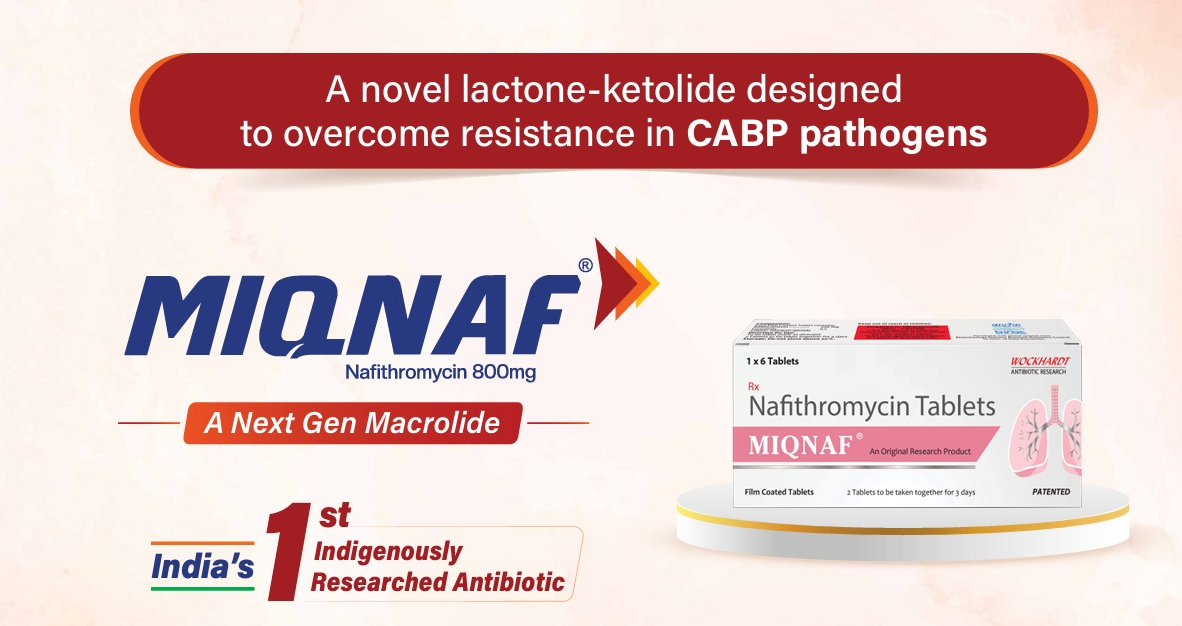
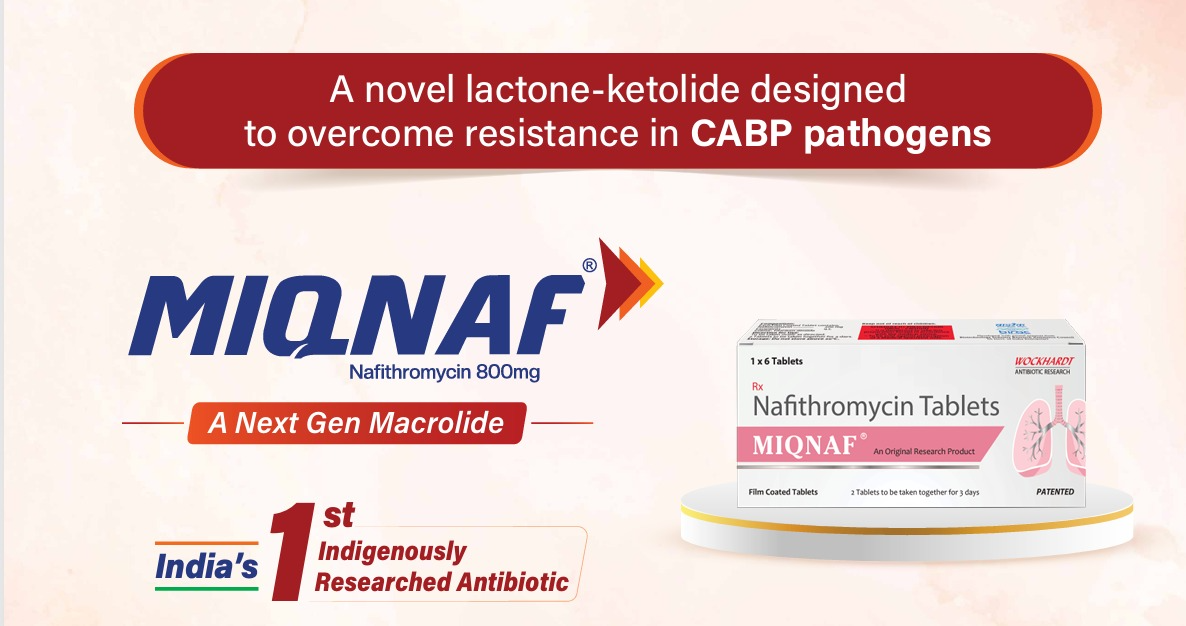
Rebuild the hero from the key visual's parts
The flat artwork was being pasted in whole, which is why it kept reading as a
poster dropped onto the page rather than a homepage. It is now taken apart and
laid out as a real hero:

- the claim, "A Next Gen Macrolide" and the India's-1st line are live text in
  the site's own typeface and brand colours, so they reflow and stay sharp
- the wordmark is the existing logo, trimmed of its transparent padding and
  resized down from 8000x4500
- the pack is cut out of the artwork and carries its own contact shadow

The pack was the awkward part. Cropped as a rectangle it brought the artwork's
diffuse white glow with it, and the crop edge showed as a pale box against the
band no matter how far the edge was feathered. It is now segmented properly:
a walk inward from the border through smooth ground stops at the printed panels
and the podium's gold rim, the hollow left in the podium is closed row by row,
and the result is trimmed to the ink.

Three older responsive blocks still carried the two-column hero's padding and
were pulling the claim up under the fixed navbar on phones and in short
landscape; they now defer to the hero's own rules.

diff --git a/style.css b/style.css
@@ -428,10 +428,10 @@ button, a {
 }
 
 /* HERO SECTION */
-/* The hero is one composed banner. Rather than letting it sit on the page as a
-   floating card, the section carries the artwork's own field colour across the
-   full width, so the banner has no visible edge — the band reads as part of it.
-   Sampled from the artwork's borders: cream on the left, warmer peach right. */
+/* Built from the key visual's parts rather than the flat artwork: the claim,
+   the tagline and the India's-1st badge are live text, the wordmark and the
+   pack are their own images. The section keeps the artwork's cream field so
+   the pack, which carries its own ground, sits in it without a seam. */
 .hero {
     position: relative;
     width: 100%;
@@ -439,7 +439,7 @@ button, a {
     display: flex;
     justify-content: center;
     align-items: center;
-    padding: calc(118px + 3vh) 0 10vh;
+    padding: calc(118px + 2vh) 0 9vh;
 }
 
 /* Matched by id as well as class: the page-wide `#page-root > section` reset
@@ -448,66 +448,203 @@ button, a {
     background: linear-gradient(103deg, #faf4f0 0%, #fdf5ed 46%, #fff1e5 100%);
 }
 
-/* The band ends in the page background instead of a hard line. The banner is
-   given the full bottom padding to clear it, so the fade only ever falls on
-   empty band. */
+/* The band ends in the page background instead of on a hard line. */
 .hero-fade {
     position: absolute;
     left: 0;
     right: 0;
     bottom: 0;
-    height: 10vh;
+    height: 9vh;
     background: linear-gradient(to bottom, rgba(242, 244, 246, 0), var(--bg-light, #F2F4F6));
     pointer-events: none;
     z-index: 1;
 }
 
-.hero-banner {
-    /* Capped by the height left below the navbar as well as by width, so the
-       whole banner stays above the fold on a short laptop screen.
-       1.888 is the artwork's aspect ratio. */
-    width: min(1440px, max(320px, (87vh - 118px) * 1.888));
-    max-width: 92%;
+.hero-inner {
     position: relative;
     z-index: 2;
+    width: 1180px;
+    max-width: 90%;
+    display: flex;
+    flex-direction: column;
+    align-items: center;
+    gap: clamp(22px, 3vh, 40px);
 }
 
-.hero-banner-img {
-    display: block;
+/* ---- the claim, as a pill ---- */
+.hero-claim {
+    margin: 0;
+    text-align: center;
+    color: #fff;
+    font-size: clamp(1rem, 1.95vw, 1.95rem);
+    font-weight: 500;
+    line-height: 1.34;
+    letter-spacing: 0.005em;
+    padding: clamp(0.75rem, 1.5vw, 1.25rem) clamp(1.5rem, 4vw, 3.6rem);
+    border-radius: 999px;
+    background: linear-gradient(180deg, #ab242b 0%, #92191f 100%);
+    box-shadow: 0 0 0 3px #ef6a2b, 0 10px 24px rgba(146, 25, 31, 0.18);
+}
+
+.hero-claim strong {
+    font-weight: 700;
+}
+
+/* ---- wordmark + tagline + badge on the left, pack on the right ---- */
+.hero-main {
     width: 100%;
+    display: flex;
+    align-items: center;
+    justify-content: center;
+    gap: clamp(16px, 3vw, 48px);
+}
+
+.hero-lead {
+    display: flex;
+    flex-direction: column;
+    align-items: flex-start;
+    gap: clamp(14px, 2.2vh, 26px);
+}
+
+.hero-lockup {
+    display: block;
+    width: clamp(240px, 30vw, 430px);
     height: auto;
-    aspect-ratio: 1182 / 626;
-    /* The artwork carries a warm pink wash toward its top-right that a flat
-       band gradient cannot match exactly, so its outer 3% is dissolved into
-       the band instead. The composition keeps 12% clear margin at the sides
-       and 6% at the bottom, so the fade only ever eats empty background.
-       Browsers without mask support simply show the faint edge. */
-    -webkit-mask-image:
-        linear-gradient(to right, transparent, #000 3%, #000 97%, transparent),
-        linear-gradient(to bottom, transparent, #000 3%, #000 97%, transparent);
-    -webkit-mask-composite: source-in;
-    mask-image:
-        linear-gradient(to right, transparent, #000 3%, #000 97%, transparent),
-        linear-gradient(to bottom, transparent, #000 3%, #000 97%, transparent);
-    mask-composite: intersect;
+    aspect-ratio: 1500 / 406;
+}
+
+/* ---- "A Next Gen Macrolide" ---- */
+.hero-tag {
+    margin: 0;
+    display: flex;
+    align-items: center;
+    gap: clamp(8px, 1.2vw, 16px);
+    align-self: stretch;
+}
+
+.hero-tag::before,
+.hero-tag::after {
+    content: "";
+    flex: 1 1 auto;
+    max-width: clamp(20px, 5vw, 78px);
+    height: 2px;
+    background: #a31e23;
+    opacity: 0.65;
+}
+
+.hero-tag span {
+    flex: 0 0 auto;
+    color: #fff;
+    background: #ef6a2b;
+    font-size: clamp(0.9rem, 1.35vw, 1.35rem);
+    font-weight: 700;
+    font-style: italic;
+    letter-spacing: 0.01em;
+    padding: 0.34em 1.15em;
+    border-radius: 6px;
+}
+
+/* ---- India's 1st Indigenously Researched Antibiotic ---- */
+.hero-first {
+    margin: 0;
+    display: flex;
+    align-items: center;
+    gap: clamp(8px, 1.1vw, 16px);
+}
+
+.hero-first-country {
+    color: var(--brand-navy);
+    font-size: clamp(1.05rem, 1.75vw, 1.75rem);
+    font-weight: 700;
+    line-height: 1.1;
+    /* the tricolour rule the artwork sets under the word */
+    padding-bottom: 5px;
+    border-bottom: 4px solid transparent;
+    border-image: linear-gradient(to right, #ff9933 0 33.3%, #ffffff 33.3% 66.6%, #138808 66.6% 100%) 1;
+}
+
+.hero-first-rank {
+    color: var(--brand-red);
+    font-size: clamp(2.2rem, 4.2vw, 4.1rem);
+    font-weight: 700;
+    line-height: 0.85;
+}
+
+.hero-first-rank sup {
+    font-size: 0.42em;
+    vertical-align: super;
+}
+
+.hero-first-what {
+    color: var(--brand-red);
+    font-size: clamp(0.92rem, 1.42vw, 1.42rem);
+    font-weight: 700;
+    line-height: 1.24;
+}
+
+/* ---- the pack ---- */
+.hero-pack {
+    flex: 0 1 auto;
+}
+
+.hero-pack img {
+    display: block;
+    width: clamp(290px, 35vw, 510px);
+    height: auto;
+    aspect-ratio: 466 / 262;
+    /* cut out of the key visual, so it needs its own contact shadow */
+    filter: drop-shadow(0 16px 24px rgba(122, 62, 34, 0.16));
 }
 
 @media (max-width: 992px) {
     .hero {
         min-height: auto;
-        padding: calc(86px + 3vh) 0 9vh;
+        padding: calc(86px + 5vh) 0 10vh;
     }
 
-    .hero-banner {
-        width: 100%;
+    .hero-inner {
+        max-width: 92%;
+    }
+
+    .hero-main {
+        flex-direction: column;
+        align-items: center;
+        gap: clamp(18px, 3vh, 32px);
+    }
+
+    .hero-lead {
+        align-items: center;
+    }
+
+    .hero-lockup {
+        width: min(330px, 74vw);
+    }
+
+    .hero-first {
+        justify-content: center;
+    }
+
+    .hero-first-what {
+        text-align: left;
+    }
+
+    .hero-pack img {
+        width: min(430px, 86vw);
     }
 }
 
-@media (max-width: 640px) {
-    /* The wording is baked into the artwork, so on a phone it is given the
-       full width rather than losing more of it to page gutters. */
-    .hero-banner {
-        max-width: 100%;
+@media (max-width: 560px) {
+    .hero-claim {
+        font-size: clamp(0.86rem, 3.5vw, 1.05rem);
+        padding: 0.85rem 1.35rem;
+        border-radius: 26px;
+        box-shadow: 0 0 0 3px #ef6a2b, 0 10px 22px rgba(146, 25, 31, 0.2);
+    }
+
+    /* the rules either side of the tagline have no room left to read */
+    .hero-tag::before,
+    .hero-tag::after {
+        display: none;
     }
 }
 
@@ -2647,7 +2784,7 @@ body.page-loaded .reveal-up {
 
     /* Hero Section */
     .hero {
-        padding-top: 8vh;
+        /* padding comes from the hero's own <=992px rule */
         min-height: auto;
         display: flex;
         flex-direction: column;
@@ -3120,8 +3257,7 @@ body.page-loaded .reveal-up {
 
     /* Hero & Sections Padding */
     .hero {
-        padding: 20px 10px;
-        padding-top: 80px;
+        /* padding comes from the hero's own <=992px rule */
         display: flex;
         flex-direction: column;
         align-items: center;
@@ -3292,7 +3428,9 @@ body.page-loaded .reveal-up {
 @media (max-height: 600px) and (orientation: landscape) {
     .hero {
         min-height: auto;
-        padding-top: 6vh;
+        /* short landscape screens still have to clear the fixed navbar */
+        padding-top: calc(76px + 2vh);
+        padding-bottom: 6vh;
     }
 
     .slide {

diff --git a/sections/hero.html b/sections/hero.html
@@ -1,12 +1,37 @@
 <!-- HERO SECTION -->
 <section id="hero" class="hero">
-    <div class="hero-banner reveal-up">
-        <picture>
-            <source srcset="assests/image.webp" type="image/webp">
-            <img src="assests/image.png" class="hero-banner-img"
-                 alt="MIQNAF (Nafithromycin 800mg) — a novel lactone-ketolide designed to overcome resistance in CABP pathogens. A next gen macrolide, India's 1st indigenously researched antibiotic."
-                 width="1182" height="626" fetchpriority="high">
-        </picture>
+    <div class="hero-inner">
+        <p class="hero-claim reveal-up">
+            A novel lactone-ketolide designed<br>
+            to overcome resistance in <strong>CABP pathogens</strong>
+        </p>
+
+        <div class="hero-main">
+            <div class="hero-lead reveal-up reveal-delay-2">
+                <picture>
+                    <source srcset="assests/miqnaf-lockup.webp" type="image/webp">
+                    <img src="assests/miqnaf-lockup.png" class="hero-lockup"
+                         alt="MIQNAF — Nafithromycin 800mg" width="1500" height="406" fetchpriority="high">
+                </picture>
+
+                <p class="hero-tag"><span>A Next Gen Macrolide</span></p>
+
+                <p class="hero-first">
+                    <span class="hero-first-country">India&rsquo;s</span>
+                    <span class="hero-first-rank">1<sup>st</sup></span>
+                    <span class="hero-first-what">Indigenously<br>Researched Antibiotic</span>
+                </p>
+            </div>
+
+            <div class="hero-pack reveal-up reveal-delay-3">
+                <picture>
+                    <source srcset="assests/hero-pack.webp" type="image/webp">
+                    <img src="assests/hero-pack.png"
+                         alt="MIQNAF Nafithromycin Tablets — 1 x 6 film coated tablets"
+                         width="466" height="262">
+                </picture>
+            </div>
+        </div>
     </div>
     <div class="hero-fade" aria-hidden="true"></div>
 </section>

diff --git a/layouts/main.html b/layouts/main.html
@@ -20,7 +20,7 @@
     <meta name="twitter:image" content="assests/miqnaf-logo.png">
 
     <link rel="icon" href="assests/MIQNAF Logo.svg" type="image/svg+xml">
-    <link rel="stylesheet" href="style.css?v=30">
+    <link rel="stylesheet" href="style.css?v=31">
 
     <!-- three.js for the mechanism scene; must precede any module that imports it -->
     <script type="importmap">
